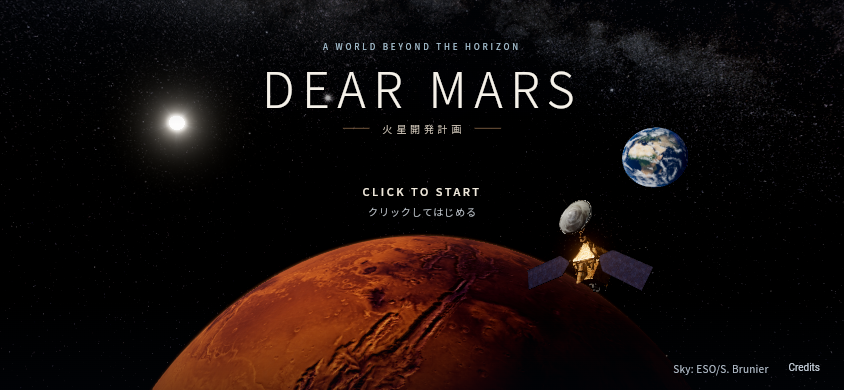
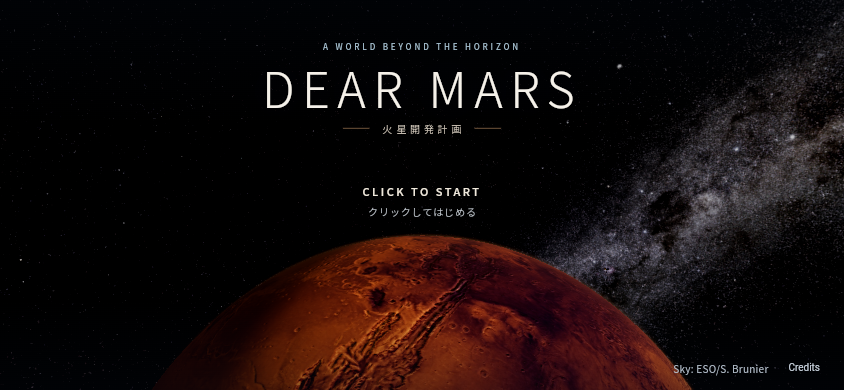
📚doc: タイトルの周回演出と全球表示の検証を記録

diff --git a/docs/project-memory.md b/docs/project-memory.md
@@ -4,15 +4,37 @@
 企画書は [game-design.md](game-design.md)、判断の履歴は [decisions.md](decisions.md)、
 起動と検証の手順は [development.md](development.md)。後のユーザー指示で変わった場合は、この要約も更新する。
 
+## 2026-10-26: 採用したモデルの運動とゲーム全球表示
+
+- ユーザーは写実寄りへ作り直したモデルを「すごくいい」と評価した。形状・観測画像・質感を維持する。
+- タイトルとTap to startはモデルを待たずに表示し、読み込み中でも開始できる。
+  背景だけを黒からフェードインする。初回保存・破損・競合のガードは維持する。
+- 火星固定視点に対する自転・公転を感じる演出にする。地球と太陽を画面へ固定せず、
+  共通の運動と視点の組合せで現れ、画面外や火星の背後へ移る。
+- 宇宙機・小惑星は火星に比べて小さくし、直線の飛来から火星中心の傾斜楕円軌道へ変更する。
+  ロケット・衛星の姿勢も進行方向へ合わせる。天文暦やゲームの進行時計は導入しない。
+- ゲーム内の全球表示（惑星マップ）の地球・火星に採用モデルを共有し、同じHDR太陽を使う。
+  近接した都市開発の箱庭は現在のトゥーン調を維持する。月は今回の置換対象にしない。
+- 最新developを基点に既存worktreeを再利用し、前回の配信確認を記した未コミットdocsを保持する。
+  実装・検証・新しい配信結果は[タイトル画面](title-screen.md)へ追記する。
+- 実装後の全665テスト・整形/静的解析・Web release/実ブラウザ・iOS GPUの3ケースが成功。
+  初期黒背景と即時CTA、遅延ready/error、実周回と時刻/姿勢、全球の都市ピン、近接CitySceneの実GPUを確認。
+  機体のtemplate claimを返却し、画像/地形は弱参照で共有。実機の負荷・熱・メモリは未測定。
+
 ## 2026-10-25: 火星と動き続ける宇宙のタイトル画面
 
-**2026-10-26の評価を優先する。** ユーザーは初稿を「モデルがしょぼすぎる」と評価した。
+**以下は作り直し前の初稿への評価。最新の採用評価は前節を優先する。** ユーザーは初稿を「モデルがしょぼすぎる」と評価した。
 もっと写実的で、宇宙の壮大さに圧倒され、今後のゲームへわくわくする画面を求めている。
 火星だけでなく、星空・地球・太陽の美しさ、ロケット・衛星の造形/質感も全面的に改善する。
 タイトル専用の高精細モデルを使ってよい。以前の初稿の品質やトゥーン比率を完成承認と扱わない。
 PR #48の初稿反映を保留し、実測天体マップ・NASAの詳細機体・球面大気shader・
 映画的な光と構図へ作り直した。現在の構成で全652テスト・静的解析、Web実ブラウザ、
 iOS GPUの最終撮影/起動/保存試験が成功。ユーザーによる見た目の最終評価とAndroid実機確認は別である。
+PR #48→develop、PR #49→mainまで全CI・CLEAN確認後に反映済み。
+main `fdbd04f247dfc5f8c4185aed7c511409c87daa59`。内部配信run40213851837で
+Android1301のPlay internal/completed、iOS13.1のTestFlight/VALID/IN_BETA_TESTING/未失効/内部group所属を確認。
+record全SHA・run・build・artifact digestと署名/認証cleanupが一致。
+mainのCI/Pages公開と、公開通常版・試遊版のChromeタイトル試験も成功。Android実機の見た目・負荷はユーザー確認予定。
 
 - ユーザーがFigmaの絵コンテを示し、起動のたびにOPより前にタイトルを表示するよう依頼した。
   タップ/クリックで開始し、上にDear Mars・下に大きな火星を置く。

diff --git a/docs/development.md b/docs/development.md
@@ -1,10 +1,19 @@
 # 開発・検証の引き継ぎ
 
+2026-10-26追加修正: 写実モデルは採用評価。タイトルと開始操作はモデル読込を待たずに出し、
+背景だけ準備後900msで黒からフェードインする。地球/太陽/星空の見かけは共通の自転・公転で変わり、
+小さくした宇宙機は火星中心の傾斜楕円を接線へ姿勢を向けて回る。
+惑星マップの地球/火星も観測画像・実測地形を共有し、都市のトゥーン箱庭と月は維持する。
+画像/地形は生存Scene間で共有、材質パラメーターはScene別。静的cacheは弱参照と読込中Futureだけを持つ。
+今回の最終検証・反映結果は[タイトル画面](title-screen.md)へ追記する。
+
+以下は直前の配信版の記録（開始のロード待ちは上記指示で更新）。
 2026-10-26追補: タイトルをNASAの観測画像/MOLA実測地形、ESOの全天写真、NASAの詳細宇宙機へ更新。
 起動は素材とシェーダーのロード完了後に開始操作を有効化し、下端のCreditsで素材条件を確認できる。
 独自build hookと固定版hooksを採用し、GLBと`.fmat`を対象環境へ事前変換する。
 描画は最大30fps・倍率2、全天写真のGPU最大辺4096。全652テスト・解析・Webスモークが成功。
-最終照明/姿勢と4k星空でiOS GPU試験・撮影も成功。現在版のCI/反映/内部配信は作業中。
+最終照明/姿勢と4k星空でiOS GPU試験・撮影も成功。全CI後にmainへ反映し、
+Android1301/Google Play internalとiOS13.1/TestFlight内部配信、公開通常版/試遊版のChrome試験も確認した。
 実機負荷と長時間の熱・メモリは未測定。
 詳細は[タイトル画面](title-screen.md)、再生成は[タイトルの素材とbuild hook](#タイトルの素材とbuild-hook)を参照する。
 
@@ -109,7 +118,7 @@ mise exec -- flutter run -d <iOS-device-id>
 mise exec -- flutter run -d <iOS-device-id> --dart-define=DEV_TOOLS=true
 ```
 
-毎回のコールド起動で3Dタイトルを表示する。ロード完了後、タップ/クリックまたはEnter/Spaceで開始する。
+毎回のコールド起動でタイトルと開始操作を表示する。タップ/クリックまたはEnter/Spaceで開始し、背景は別途フェードインする。
 新規ゲームは40秒の3Dの未来序章から、ミナとの3幕の会話へ進む。地球の街・火星の街・輸送ロケットを命名して開発を開始する。
 OPはスキップ可能。既存セーブでは自動再生せず、「ガイド」で再視聴・全都市の改名ができる。
 

diff --git a/docs/decisions.md b/docs/decisions.md
@@ -1,5 +1,15 @@
 # 試作の決定と保留事項
 
+## 2026-10-26: 即時開始・周回運動・全球モデルの共有
+
+写実モデルはユーザーが「すごくいい」と評価し採用。モデルの再デザインを行わず、
+開始操作と背景の準備を分離し、タイトル/CTAを先に表示して背景だけ黒からフェードインする。
+地球・太陽・星空は同じ慣性系から火星固定系へ変換する。周期・距離は演出用の圧縮値で、
+端末時刻やGameEngineの年代・予約・保存を進めない。地球/太陽の常時表示は要求しない。
+宇宙機と小惑星を縮小し、火星の外側を通る傾斜楕円と解析速度から位置/姿勢を求める。
+ゲームの全球表示には採用済みの地球/火星とHDR太陽を共有し、都市開発の近接箱庭は維持する。
+地理座標と都市マーカーを一致させ、保存・建設・解放条件や全球環境ルールは変更しない。
+
 ## 2026-10-25: OPより前に3Dタイトルを表示
 
 2026-10-26追補: 初稿のモデル/天体/星空に対し、ユーザーは品質不足と評価した。

diff --git a/docs/title-cosmos-assets.md b/docs/title-cosmos-assets.md
@@ -29,7 +29,9 @@
 画像全体をUIへ貼らず、FlutterSceneの全天Skyboxで視線の方向に応じて参照する。
 火星・地球・機体・太陽は独立した3D物体。カメラ位置の平行移動で星図へ視差は生じない。
 星図の向きは`sky_yaw`・`sky_tilt`のシェーダーパラメーターで調整し、
-表示用の単調時刻から`sky_yaw`だけを毎秒0.0008rad進める。ゲームの時刻・保存値は使わない。
+タイトルでは表示用の単調時刻から計算した火星の自転角を`sky_yaw`へ渡し、
+`body_tilt`で火星固定系から慣性系へ戻す軸傾斜も適用する。地球/太陽の見かけと同じ座標変換を使う。
+汎用updateで角度を指定しない場合だけ従来の毎秒0.0008radを使う。ゲームの時刻・保存値は使わない。
 星空はSkybox専用シェーダーでmipmapを持つテクスチャを直接参照する。
 サンプラーはmin/magをlinear、mipをlinear、経度をrepeat、緯度をclampに明示する。
 元のEnvironmentMap背景テクスチャにはmipmapがないため、その直接参照は使わない。

diff --git a/docs/title-assets.md b/docs/title-assets.md
@@ -1,6 +1,6 @@
 # タイトル専用素材の出典
 
-2026-10-26。ゲーム内の都市景観とは別に、タイトルの天体は実画像を主にした表現を使う。
+2026-10-26。ゲーム内の都市景観とは別に、タイトルと惑星マップの全球は実画像を主にした表現を使う。
 ユーザーの「より写実的で、圧倒的な壮大さ」という評価に対応する差し替え。
 
 ## 天体
